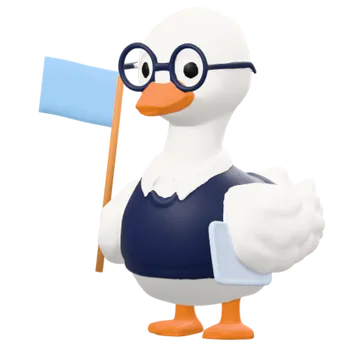
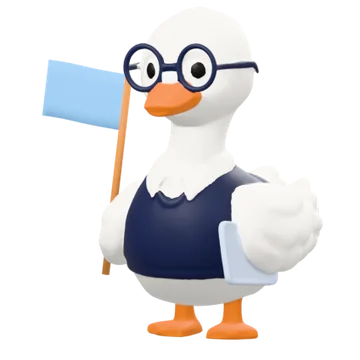
생동감: 오리 고개 내밀기 · 강사 갸웃 · 강사 깃대를 날개에
- ③ 숫자 섹션: 이름 띠 뒤에서 오리가 고개를 내밀고 갸웃 (duck-tilt 프레임 재사용, 9초마다)
- ⑤ 강사: 말풍선 "이 줄은 왜 필요할까요?" 동안 갸웃 (instructor-tilt 27장, 두 캔버스 0.3초 겹쳐 넘김)
- ⑦ 모험길: 강사 깃대를 날개 끝으로 옮기고 걷기 강사 24장 다시 렌더 (프레임은 public/이라 저장소 밖)
- tools/shot/timed.cjs, devlog 22단계, build-log, 인계 문서에 렌더 기준

diff --git a/app/web/src/pages/home/TopSections.tsx b/app/web/src/pages/home/TopSections.tsx
@@ -125,12 +125,74 @@ export function Numbers({ data, load }: { data: HomeData | null; load: HomeLoad 
         )}
       </div>
       {data && (
-        <div className="flex flex-col gap-3.5 bg-sky py-6" aria-label="졸업생 이름과 참여 부서">
-          <Marquee items={data.alumni_names} big />
-          <Marquee items={data.dept_names} reverse />
+        <div className="relative">
+          <PeekingDuck />
+          {/* 이름 띠가 오리보다 앞에 있어서, 오리가 띠 뒤에서 고개를 내미는 것처럼 보인다 */}
+          <div className="relative z-10 flex flex-col gap-3.5 bg-sky py-6" aria-label="졸업생 이름과 참여 부서">
+            <Marquee items={data.alumni_names} big />
+            <Marquee items={data.dept_names} reverse />
+          </div>
         </div>
       )}
     </Section>
+  )
+}
+
+// 이름 띠 뒤에서 오리가 고개만 쏙 내밀고 갸웃한 뒤 다시 들어간다 (생동감, 2026-10-19).
+// 프레임은 히어로의 오리 갸웃(duck-tilt 27장, 처음과 끝이 같은 자세)을 다시 쓴다. 섹션이 보이는 동안 9초마다 한 번
+const PEEK = frameUrls('duck-tilt', 27)
+const PEEK_SIZE = 240 // 프레임 720 → 1/3. 머리 꼭대기가 캔버스 위에서 약 90px
+const PEEK_UP = 96 // 띠 위로 올라오는 높이 (머리와 안경까지)
+function PeekingDuck() {
+  const box = useRef<HTMLDivElement>(null)
+  const canvas = useRef<FrameCanvasHandle>(null)
+  const [up, setUp] = useState(false)
+  useEffect(() => {
+    if (prefersReducedMotion()) return
+    canvas.current?.draw(0)
+    const timers: number[] = []
+    const later = (fn: () => void, ms: number) => timers.push(window.setTimeout(fn, ms))
+    const peek = () => {
+      setUp(true)
+      // 올라온 뒤 갸웃 프레임을 한 번 재생하고 (초당 18장, 1.5초) 다시 들어간다
+      later(() => {
+        let f = 0
+        const id = window.setInterval(() => {
+          f += 1
+          canvas.current?.draw(f)
+          if (f >= PEEK.length - 1) window.clearInterval(id)
+        }, 1000 / 18)
+        timers.push(id)
+      }, 600)
+      later(() => setUp(false), 600 + 1500 + 700)
+    }
+    let loop = 0
+    const io = new IntersectionObserver(
+      ([e]) => {
+        window.clearInterval(loop)
+        if (!e.isIntersecting) return
+        later(peek, 700)
+        loop = window.setInterval(peek, 9000)
+      },
+      { threshold: 0.6 },
+    )
+    if (box.current) io.observe(box.current.parentElement!)
+    return () => {
+      io.disconnect()
+      window.clearInterval(loop)
+      timers.forEach((t) => (window.clearTimeout(t), window.clearInterval(t)))
+    }
+  }, [])
+  return (
+    // 띠 윗변 위의 얇은 창. 오리는 창 아래에 숨어 있다가 올라온다
+    <div ref={box} className="pointer-events-none absolute right-[12%] bottom-full h-[110px] w-[240px] overflow-hidden" aria-hidden>
+      <div
+        className="absolute left-0 transition-transform duration-500 ease-out"
+        style={{ top: 110 - 90 + 8, transform: `translateY(${up ? -PEEK_UP : 0}px)` }}
+      >
+        <FrameCanvas ref={canvas} urls={PEEK} size={PEEK_SIZE} />
+      </div>
+    </div>
   )
 }
 
@@ -176,16 +238,22 @@ export function Showcase({ data, load }: { data: HomeData | null; load: HomeLoad
 }
 
 /* ---------- 5. 강사 소개 ---------- */
-// 강사는 날개를 펴서 설명하듯 움직이고(블렌더 instructor_teach, 36장 반복), 옆 말풍선의 말이 3초마다 바뀐다
+// 강사는 날개를 펴서 설명하듯 움직이고(블렌더 instructor_teach, 36장 반복), 옆 말풍선의 말이 3초마다 바뀐다.
+// 말풍선이 "이 줄은 왜 필요할까요?"일 때는 고개를 갸웃한다(instructor_tilt를 2칸씩 27장, 2026-10-19).
+// 설명은 날개를 든 자세, 갸웃은 내린 자세라 바로 바꾸면 날개가 튀어서 두 캔버스를 0.3초 겹쳐 넘긴다
 const TEACH = frameUrls('instructor-teach', 36)
+const TILT = frameUrls('instructor-tilt', 27)
 const TEACH_SIZE = 667 // 캐릭터 키가 500px이 되는 캔버스 크기 (프레임 720 안에서 키 540)
 const TEACH_LINES = ['// 돌아가는 코드와 맞는 코드는 달라요', '// 이 줄은 왜 필요할까요?', '// AI에게는 이렇게 물어보세요']
+const TILT_LINE = 1
 
 export function Instructor() {
   const t = VIRTUAL_INSTRUCTOR
   const box = useRef<HTMLDivElement>(null)
   const frames = useRef<FrameCanvasHandle>(null)
+  const tiltFrames = useRef<FrameCanvasHandle>(null)
   const [line, setLine] = useState(0)
+  const tilting = line === TILT_LINE
   useEffect(() => {
     if (!box.current) return
     if (prefersReducedMotion()) {
@@ -195,12 +263,20 @@ export function Instructor() {
     let timer = 0
     let i = 0
     let tick = 0
+    let current = 0
+    tiltFrames.current?.draw(0)
     const io = new IntersectionObserver(([e]) => {
       window.clearInterval(timer)
       if (!e.isIntersecting) return
       timer = window.setInterval(() => {
-        frames.current?.draw((i = (i + 1) % TEACH.length))
-        if (++tick % 36 === 0) setLine((l) => (l + 1) % TEACH_LINES.length) // 12장/초로 36장 = 3초
+        const k = ++tick % 36
+        if (current === TILT_LINE) tiltFrames.current?.draw(Math.min(k, TILT.length - 1)) // 27장 갸웃 뒤 남은 시간은 마지막 장면
+        else frames.current?.draw((i = (i + 1) % TEACH.length))
+        if (k === 0) {
+          current = (current + 1) % TEACH_LINES.length
+          if (current === TILT_LINE) tiltFrames.current?.draw(0)
+          setLine(current) // 12장/초로 36장 = 3초
+        }
       }, 1000 / 12)
     })
     io.observe(box.current)
@@ -220,7 +296,20 @@ export function Instructor() {
             role="img"
             aria-label="남색 조끼를 입고 안경을 쓴 강사 백조가 날개를 펴서 설명하고 있다"
           >
-            <FrameCanvas ref={frames} urls={TEACH} size={TEACH_SIZE} />
+            <FrameCanvas
+              ref={frames}
+              urls={TEACH}
+              size={TEACH_SIZE}
+              className="absolute inset-0 transition-opacity duration-300"
+              style={{ opacity: tilting ? 0 : 1 }}
+            />
+            <FrameCanvas
+              ref={tiltFrames}
+              urls={TILT}
+              size={TEACH_SIZE}
+              className="absolute inset-0 transition-opacity duration-300"
+              style={{ opacity: tilting ? 1 : 0 }}
+            />
           </div>
           {/* 말풍선: 강사 머리 오른쪽 위 */}
           <div className="absolute top-6 left-[318px] rounded-dialog bg-surface px-4 py-3 shadow-dialog" aria-live="polite">

diff --git a/docs/devlog/README.md b/docs/devlog/README.md
@@ -525,3 +525,21 @@
 
 **다시 판정**: 06-1 수정 필요 → 확인. 이로써 홈 UI 체크리스트의 `수정 필요`가 모두 끝났다
 **남은 것**: 블렌더가 필요한 세 가지(강사 깃대가 날개에서 떨어져 보임, 강사 섹션 갸웃, 숫자 섹션 오리 고개 내밀기)는 블렌더가 꺼져 있어 다음에. 캐릭터를 고치면 정지 그림 한 장으로 먼저 확인받는다
+
+## 22. 생동감 · 오리 고개 내밀기 · 강사 갸웃 · 강사 깃대 (2026-10-19)
+
+**단계**: 남은 작은 일 (블렌더) · 정지 그림으로 먼저 확인받음
+**한 일**:
+- **③ 숫자 섹션 오리 고개 내밀기**: 하늘색 이름 띠 뒤에서 오리가 고개만 쏙 내밀고 갸웃한 뒤 들어간다. 섹션이 보이는 동안 9초마다. 렌더 없이 히어로의 오리 갸웃 프레임(`duck-tilt` 27장)을 다시 썼다 (`TopSections.tsx`의 `PeekingDuck`). 움직임 줄이기면 나오지 않는다
+- **⑤ 강사 갸웃**: 블렌더에 있던 `instructor_tilt`를 2칸씩 27장 렌더(`public/frames/instructor-tilt`, 원본 `design/hero-frames/instructor-tilt`). 말풍선이 "// 이 줄은 왜 필요할까요?"일 때 갸웃한다. 설명 동작(날개 든 자세)과 날개 자세가 달라 두 캔버스를 0.3초 겹쳐 넘긴다. 렌더 기준은 기존 설명 프레임 1장째를 다시 렌더해 위치를 맞춰 찾았다(직교 2.6, 방향 (0.3,-1,0.08), shift x -6/720 · y -89/720, 강사 위치 그대로)
+- **⑦ 모험길 강사 깃대**: 깃대가 날개에서 약 4~10cm 떨어져 떠 보였다 → 깃대와 깃발을 날개 끝 쪽으로 6.8cm 옮겨 날개가 쥐게 했다. 걷기 강사 24장 다시 렌더(숨쉬기 1·4·…·70번째, 강사를 -25° 돌려 오리 쪽을 보게, `walk_cam` 560px → 기존 자르기 값 그대로 360px). 예전 그림은 `design/walk/instructor_before_flagfix`, `design/walk/_web_walk-instructor_before_flagfix`, 블렌더 백업 `swan-backup-before-flagfix.blend`
+- 확인: `tools/shot/timed.cjs <url> <섹션> <출력> [초,…]`(섹션으로 건너뛰어 시간별 캡처), 콘솔 오류 없음
+
+| 화면 | 바뀐 것 | 비포 | 애프터 |
+|---|---|---|---|
+| 확인받은 정지 그림 | 깃대 지금 / 고친 뒤 · 강사 지금 / 갸웃 | — | ![](img/22-life/confirm/flag-tilt-still.jpg) |
+| ③ 오리 고개 내밀기 (0.5·1.2·1.9·2.6·3.6초) | 띠 뒤에서 올라와 갸웃하고 들어감 | (없음) | ![](img/22-life/after/peek-strip.jpg) |
+| ⑤ 강사 (2.5·3.2·4.2·5.2·6.6초) | 말풍선 2번째 동안 갸웃 | (설명만 반복) | ![](img/22-life/after/instructor-tilt-strip.jpg) |
+| ⑦ 걷기 강사 프레임 | 왼쪽 예전 · 오른쪽 새 그림 | ![](img/22-life/after/walk-instructor-before-after.jpg) | ![](img/22-life/after/journey-1650.jpg) |
+
+**고친 것 (AI 실수)**: 정지 그림을 두 번 렌더하면서 '원래 렌더 숨김 상태'를 두 번째에 덮어써, 깃대와 다른 캐릭터들이 렌더에서 숨겨진 채로 블렌더 파일이 한 번 저장됐다. 다음 렌더에서 깃대가 안 보여 알아챘고, 처음에 적어 둔 목록대로 되돌려 다시 저장했다 ([build-log](../../planning/v3-1013/build-log.md))

diff --git a/planning/v3-1013/handoff-next-session.md b/planning/v3-1013/handoff-next-session.md
@@ -131,12 +131,13 @@ Phase 6에서 할 것 (claude-code-prompt.md 기준):
 - 수준 테스트도 상단 메뉴를 쓴다 (사용자 요청, devlog 20단계). 메뉴 아래 줄에 진행·[나가기]. 결과 화면 주 버튼이 보이면 메뉴 [신청하기]는 숨김(`TopNav.tsx`의 `useHideNavPrimary`). 신청 화면만 로고 + [나가기]. 홈에서 로고를 누르면 맨 위로
 - UI 체크리스트(홈) 남은 수정 필요: 없음 (06-1은 2026-10-19 devlog 21단계에서 끝냄)
 - 2026-10-19 작은 것들(devlog 21단계): [완성작 올리기] 보조 버튼, 풀던 수준 테스트를 메뉴로 떠나면 묻기(`setLeaveGuard`), 긴 이름 시험과 고침, 이정표 번호를 남색 원 숫자로
+- 2026-10-19 블렌더(devlog 22단계): 강사 깃대·깃발을 날개 끝으로 6.8cm 옮겨 저장(백업 `swan-backup-before-flagfix.blend`). 걷기 강사는 `instructor_idle` 1·4·…·70번째를 강사 -25° 돌려 `walk_cam` 560px로 렌더 → (30,126) 424px 잘라 360px. 강사 섹션 갸웃 `instructor-tilt` 27장은 직교 2.6·방향 (0.3,-1,0.08)·shift x -6/720 y -89/720·720px(강사 rig 위치 그대로, 깃대 숨김) — 설명 프레임과 같은 자리. 렌더 도우미는 원래 숨김 상태를 한 번만 적고 try/finally로 되돌릴 것 (두 번 적었다가 숨김 상태가 잘못 저장된 적 있음)
 - Git Bash에서 python heredoc 문자열에 `C:\Users` 같은 경로를 넣으면 `\U`가 이스케이프로 읽혀 실패한다 → 한글·경로가 든 문서 편집은 Edit 도구로
 
 ## 남은 일 (순서대로 제안)
-1. 모험길 다듬기(선택): 강사 깃대가 날개에서 조금 떨어져 보임 (블렌더, 정지 그림 확인 먼저). 여백은 배경 하늘이라 그대로, 이정표 번호는 끝냄
+1. ~~모험길 다듬기~~: 2026-10-19 끝 (깃대를 날개 끝으로 옮기고 걷기 강사 다시 렌더, 이정표 번호)
 2. ~~2번 영상~~: 2026-10-18 완료 (마지막 신청 섹션의 날아오르는 어린 백조)
-3. 그 밖의 생동감: 강사 섹션 갸웃, 숫자 섹션 오리 고개 내밀기, 접수 완료 오리 뛰기
+3. 그 밖의 생동감: ~~강사 섹션 갸웃·숫자 섹션 오리 고개 내밀기~~ 2026-10-19 끝 (devlog 22단계). 남은 것: 접수 완료 오리 뛰기(Phase 7 3D와 함께)
 4. ~~Phase 5~~: 2026-10-19 완료 → Phase 6(제작 과정·커리큘럼 관리·관리자 추가) → Phase 7 → Phase 8
 
 ## 주의할 점 (겪은 문제)

diff --git a/planning/v3-1013/build-log.md b/planning/v3-1013/build-log.md
@@ -102,3 +102,8 @@
 - 무엇이 틀렸나: 처음 만든 화면에서 [아이디어 남기기]·[모집 글 쓰기]·[참여하고 싶어요]를 주 버튼(ink)으로 만들어 메뉴의 [신청하기]와 주 버튼이 두 개가 됐다. 남기기 창의 "제목을 적어 주세요" 안내는 칸을 채운 뒤에도 남았고, 지우기 확인 창 문구는 제목 끝 받침과 상관없이 "…과"를 붙여 "…화면에과"가 됐다.
 - 무엇을 보고 알았나: 첫 화면 캡처를 "주 행동 버튼은 한 화면에 하나" 규칙(devlog 11단계)과 비교했고, 흐름 캡처(phase5.cjs)의 채운 창과 확인 창 그림을 읽다가 찾았다.
 - 어떻게 고쳤나: 게시판의 행동은 홈 ⑨의 [아이디어 남기기]와 같은 보조 버튼으로 바꿨다. 칸을 고쳐 쓰면 그 칸의 안내를 지우게 하고, 확인 창은 조사 없이 "제목 — 받은 공감 N개도 함께…"로 바꿨다.
+
+### 2026-10-19 · 블렌더 (렌더 숨김 상태를 덮어써서 저장)
+- 무엇이 틀렸나: 강사 정지 그림을 렌더하는 도우미가 다른 캐릭터와 깃대를 숨기기 전에 '원래 상태'를 적어 두었는데, 두 번째 렌더에서 이미 숨긴 상태(True)를 원래 값으로 다시 적었다. 그래서 되돌릴 때 모두 숨김으로 되돌아갔고, 그 상태로 swan.blend를 저장했다.
+- 무엇을 보고 알았나: 깃대를 고친 뒤 걷기 카메라로 다시 렌더했는데 깃대가 그림에 없었다.
+- 어떻게 고쳤나: 작업 처음에 출력해 둔 '렌더에 보이는 물체' 12개 목록대로 되돌려 다시 저장했다. 이후 렌더는 원래 상태를 한 번만 적고 try/finally로 반드시 되돌리게 바꿨다.
